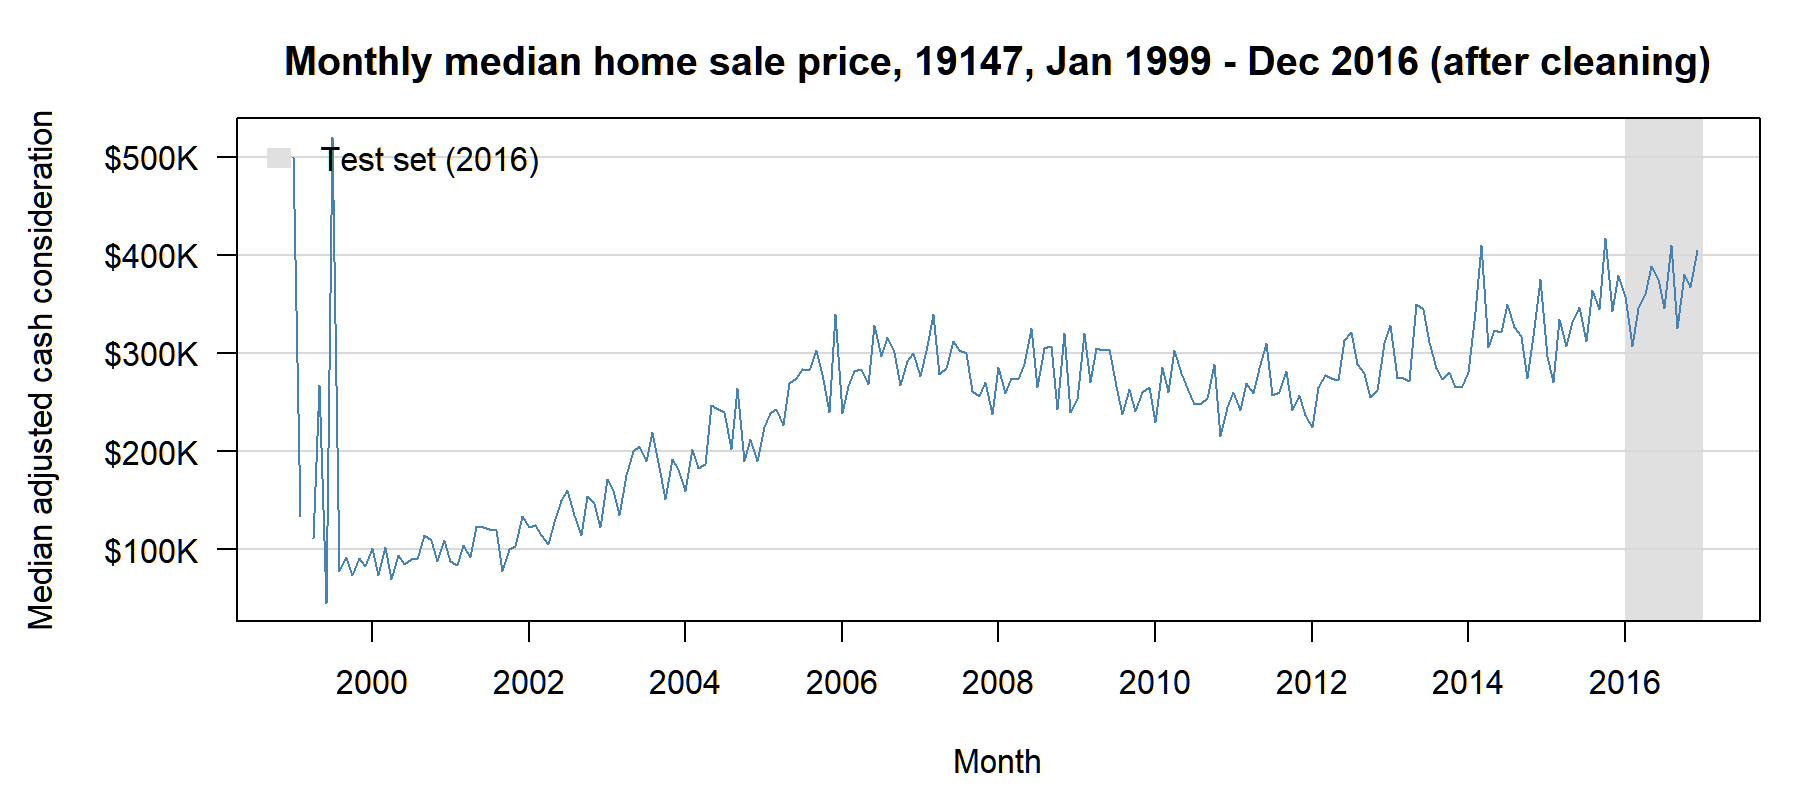
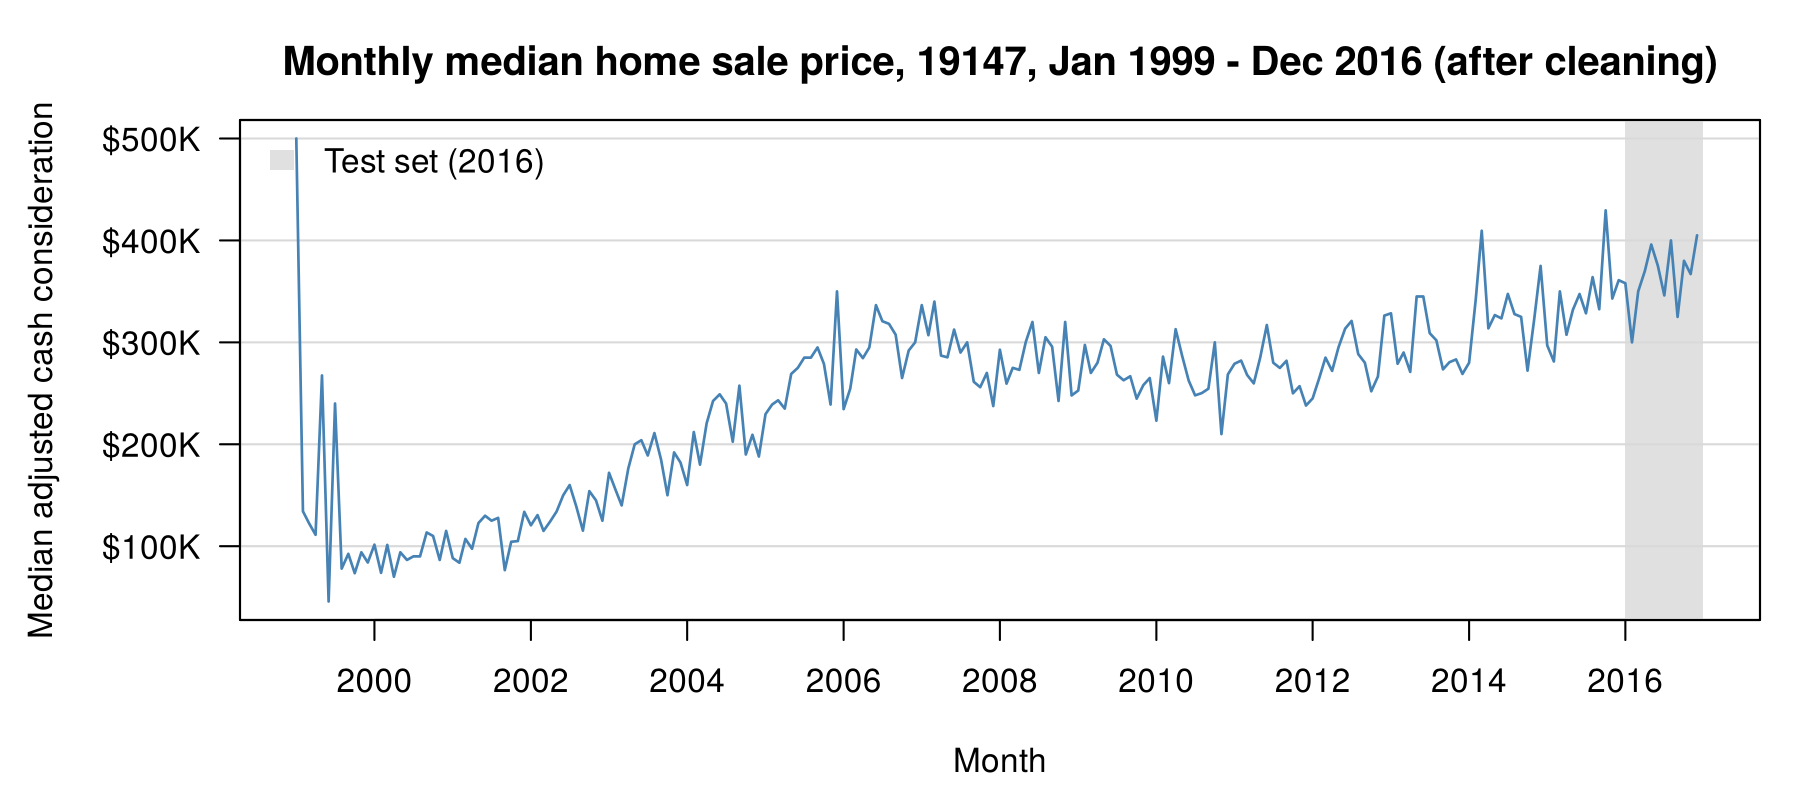
Address remaining MI3 feedback: eda_plots.R reads notebook series, saves to OUTPUT; fix data docs and file map

diff --git a/project2/DATA/README.md b/project2/DATA/README.md
@@ -1,11 +1,11 @@
 # Data Summary
-Our raw data is the City of Philadelphia's Real Estate Transfers dataset [1], downloaded from OpenDataPhilly as a single CSV of every document recorded in the city since December 1999. Each row is one recorded document for one property, such as a deed or a mortgage, described by 47 variables, including the document type, document date, ZIP code, and adjusted cash consideration [2]. The file we downloaded has 5,168,341 rows. From it we built a monthly series of median home sale prices for the 19147 ZIP code (Queen Village, Bella Vista, Pennsport, and nearby neighborhoods [3]) covering January 1999 to December 2016: 216 months, of which the first 204 (1999–2015) train the model and the last 12 (2016) test it. After cleaning, 13,900 deeds remain, with a median price of $250,000. No buyer or seller names appear in any file we publish. The repository stores two derived files: the cleaned deed-level records at `/project2/DATA/rtt_19147_clean.csv`, and the monthly series used for modeling at `/project2/DATA/rtt_19147_monthly.csv`.
+Our raw data is the City of Philadelphia's Real Estate Transfers dataset [1], downloaded from OpenDataPhilly as a single CSV of every document recorded in the city since December 1999. Each row is one recorded document for one property, such as a deed or a mortgage, described by 47 variables, including the document type, document date, ZIP code, and adjusted cash consideration [2]. The file we downloaded has 5,171,819 rows. From it we built a monthly series of median home sale prices for the 19147 ZIP code (Queen Village, Bella Vista, Pennsport, and nearby neighborhoods [3]) covering January 1999 to December 2016: 216 months, of which the first 204 (1999–2015) train the model and the last 12 (2016) test it. After cleaning, 13,900 deeds remain, with a median price of $250,000. No buyer or seller names appear in any file we publish. The repository stores two derived files: the cleaned deed-level records at `/project2/DATA/rtt_19147_clean.csv`, and the monthly series used for modeling at `/project2/DATA/rtt_19147_monthly.csv`.
 
 # Downloading the Raw Data
 To download the data look at data.md for instructions 
 
 # Provenance
-Philadelphia's Department of Records records every deed filed in the city and collects the realty transfer tax on property transfers. The city matches each property to its address system, which assigns the ZIP code, gives each property in a multi-property transaction its own row with an equal share of the price, and publishes the records monthly back to December 6, 1999 [1], [2]. Our group downloaded the all-years CSV from OpenDataPhilly in October 2026 and cleaned it with pandas [4] in `/project2/SCRIPTS/code.ipynb`. The script keeps only deeds dated January 1, 1999 through December 31, 2016 whose ZIP code starts with 19147 (so ZIP+4 codes are included). It then removes records with no price, records below a $10,000 price floor chosen from the price histogram (Figure 1), same-day groups of five or more deeds that share one identical price (bulk sales), and sales more than three standard deviations from their year's mean log price. The cleaned records are written to `rtt_19147_clean.csv`; the script then takes each month's median adjusted cash consideration and sale count, fills any month with no sales by linear interpolation, and writes the result to `rtt_19147_monthly.csv`. The exploratory figures come from `/project2/SCRIPTS/eda_plots.R`, which pulls the same 19147 deeds from the city's Carto SQL API instead of the downloaded CSV, applies the same rules (and also drops deeds covering more than one property), and builds the series the same way.
+Philadelphia's Department of Records records every deed filed in the city and collects the realty transfer tax on property transfers. The city matches each property to its address system, which assigns the ZIP code, gives each property in a multi-property transaction its own row with an equal share of the price, and publishes the records monthly back to December 6, 1999 [1], [2]. Our group downloaded the all-years CSV from OpenDataPhilly in October 2026 and cleaned it with pandas [4] in `/project2/SCRIPTS/code.ipynb`. The script keeps only deeds dated January 1, 1999 through December 31, 2016 whose ZIP code starts with 19147 (so ZIP+4 codes are included). It then removes records with no price, records below a $10,000 price floor chosen from the price histogram (Figure 1), same-day groups of two or more deeds that share one identical price (bulk or multi-property sales), and sales more than three standard deviations from their year's mean log price. The cleaned records are written to `rtt_19147_clean.csv`; the script then takes each month's median adjusted cash consideration and sale count, fills any month with no sales by linear interpolation, and writes the result to `rtt_19147_monthly.csv`. It also writes `cleaning_steps_log.csv`, which records how many rows each step removed. The exploratory figures come from `/project2/SCRIPTS/eda_plots.R`. Figure 1 shows the raw prices before any cleaning; to avoid loading the full CSV into R, the script pulls just the 19147 deeds dated 1999–2016 from the city's Carto SQL API, which serves the same Real Estate Transfers table. Figure 2 is drawn directly from `rtt_19147_monthly.csv`, so it shows exactly the series the model uses.
 
 # License
 The data falls under the City of Philadelphia License [5]: the city keeps all rights, provides the data as is with no warranty, and holds users responsible for how they use it. We credit the City of Philadelphia, Department of Records, as the source. Our code is released separately under the MIT License (see `/project2/LICENSE.md`), which does not apply to the data.
@@ -38,14 +38,17 @@ One row per deed that survived cleaning: 13,900 deeds in ZIP 19147 dated January
 | month_year | String | Month and year of document_date (YYYY-MM); used to group deeds into the monthly series | 215 of the 216 months from 1999-01 to 2016-12 | 0 | March 1999 has no deeds, so that month's median in the monthly file is interpolated. |
 
 ## `rtt_19147_monthly.csv`
-The final series used for modeling: one row per month, 216 rows (January 1999 to December 2016).
+The final series used for modeling: one row per month, 216 rows (January 1999 to December 2016), with 4 columns.
 
 | Feature | Type | Description | Values / Range | Missing | Uncertainty |
 |:---|:---|:---|:---|:---|:---|
-| month | Date (YYYY-MM) | Month and year of the deeds | 1999-01 to 2016-12 | 0 | None. One row per month, no duplicates. |
-| median_price | Numeric | Median adjusted cash consideration of that month's deeds, in USD | $45,750 to $500,000; $70,000 (2000-04) to $429,500 (2015-10) from 2000 on | 1 (March 1999) | High in early 1999. January–October 1999 medians rest on 1 to 10 deeds each, so they are very noisy (both extremes fall in 1999). From 2000 on, every month has at least 22 deeds (fewest in 2009-01). Not adjusted for inflation. |
-| n_sales | Integer | Number of deeds used to compute the month's median | 0 to 127 (2007-06); median 65 | 0 | Counts sales left after cleaning, not every sale in the ZIP code. 0 only for March 1999. |
-| median_price_filled | Numeric | median_price with the empty month filled by linear interpolation; the column the model uses | Same as median_price | 0 | March 1999 is an interpolated estimate, not an observed median. |
+| month_year | String (YYYY-MM) | Month and year of the deeds | 1999-01 to 2016-12 | 0 | None. One row per month, no duplicates. |
+| median_price | Numeric | Median adjusted cash consideration of that month's deeds, in USD; months with no deeds are filled by linear interpolation. This is the column the model uses. | $45,750 to $500,000; $70,000 (2000-04) to $429,500 (2015-10) from 2000 on | 0 | High in early 1999. January–October 1999 medians rest on 1 to 10 deeds each, so they are very noisy (both extremes fall in 1999). From 2000 on, every month has at least 22 deeds (fewest in 2009-01). March 1999 is an interpolated estimate, not an observed median. Not adjusted for inflation. |
+| sale_count | Integer | Number of deeds used to compute the month's median | 0 to 127 (2007-06); median 65 | 0 | Counts sales left after cleaning, not every sale in the ZIP code. 0 only for March 1999. |
+| interpolated | Boolean | True if the month had no deeds and its median_price was interpolated | True for 1 month (1999-03), False otherwise | 0 | None. |
+
+## `cleaning_steps_log.csv`
+One row per cleaning step in `code.ipynb`, 9 rows, with 4 columns: `step` (what the step did), `records_before`, `records_removed`, and `records_remaining`. It starts at 5,171,819 raw records and ends at the 13,900 deeds in `rtt_19147_clean.csv`.
 
 # Exploratory Plots
 ![Raw price distribution for 19147 deeds](../OUTPUT/fig1_raw_price_distribution.png)

diff --git a/project2/README.md b/project2/README.md
@@ -26,7 +26,7 @@ This repository holds the data, code, and outputs for Project 2 of DS 4002. We b
 
 **R packages**
 
-`eda_plots.R` uses base R only. The packages below are for `sarima_analysis.Rmd`.
+`eda_plots.R` needs only `here`. All of the packages below are used by `sarima_analysis.Rmd`.
 
 | Package | Version | Used for |
 |---|---|---|
@@ -36,7 +36,7 @@ This repository holds the data, code, and outputs for Project 2 of DS 4002. We b
 | `ggplot2` | 4.0.3 | Plotting |
 | `scales` | 1.4.0 | Formatting axis labels (dollar amounts, dates) |
 | `patchwork` | 1.3.2 | Combining several plots into one figure |
-| `here` | 1.0.2 | Building file paths from the project root |
+| `here` | 1.0.2 | Building file paths from the repository root (used by both R scripts) |
 
 `rmarkdown` and `knitr` are also needed to knit `sarima_analysis.Rmd`; RStudio installs them automatically.
 
@@ -59,13 +59,16 @@ project2/
 ├── README.md                          # This file: orientation and reproduction steps
 ├── LICENSE.md                         # MIT License
 ├── DATA/
-│   ├── data.md                        # Metadata: summary, provenance, license, ethics,
-│   │                                  #   data dictionary, exploratory plots, and how to
-│   │                                  #   download the raw CSV
+│   ├── README.md                      # Metadata: summary, provenance, license, ethics,
+│   │                                  #   data dictionary, and exploratory plots
+│   ├── data.md                        # How to download the raw CSV
 │   ├── downlaodData.png               # Screenshot showing where to download the raw CSV
 │   ├── rtt_summary.csv                # Raw all-years Real Estate Transfers CSV. NOT in the
 │   │                                  #   repo: you download it in Step 1 (~5.2M rows, too
 │   │                                  #   large for GitHub)
+│   ├── raw_19147_deeds.csv            # NOT in the repo: written when you run eda_plots.R
+│   │                                  #   (its API pull of the raw 19147 deeds, 1999–2016,
+│   │                                  #   used only for Figure 1)
 │   ├── rtt_19147_clean.csv            # Written by code.ipynb: cleaned deed-level records for
 │   │                                  #   ZIP 19147, 1999–2016 (1999 is dropped later, in the
 │   │                                  #   model, for better performance)
@@ -74,13 +77,8 @@ project2/
 │                                      #   count. This is the series the model uses.
 ├── SCRIPTS/
 │   ├── code.ipynb                     # Step 2: cleans the raw CSV and builds the monthly series
-│   ├── eda_plots.R                    # Step 3: exploratory figures (Figures 1 and 2); pulls its
-│   │                                  #   own data from the city's API
-│   ├── raw_19147_deeds.csv            # NOT in the repo: written when you run eda_plots.R
-│   │                                  #   (its API pull of 19147 deeds, 1999–2016)
-│   ├── monthly_19147.csv              # NOT in the repo: written when you run eda_plots.R
-│   │                                  #   (its own monthly series, for Figure 2 only; the
-│   │                                  #   model uses DATA/rtt_19147_monthly.csv)
+│   ├── eda_plots.R                    # Step 3: exploratory figures (Figures 1 and 2), saved
+│   │                                  #   to OUTPUT/
 │   ├── sarima_analysis.Rmd            # Step 4: SARIMA order selection, fitting, diagnostics,
 │   │                                  #   forecast, and evaluation
 │   ├── sarima_analysis.md             # Knitted (GitHub-rendered) output of sarima_analysis.Rmd
@@ -112,7 +110,7 @@ project2/
 
 ## Section 3: Instructions for Reproducing Our Results
 
-Steps 2 and 4 must run in order, because the model in Step 4 reads the monthly series that Step 2 writes. Step 3 only makes the two exploratory figures. It pulls its own data from the city's API, so it can run any time after Step 1.
+Run the steps in order. Steps 3 and 4 both read `DATA/rtt_19147_monthly.csv`, the monthly series that Step 2 writes. (That file is also committed to the repository, so Steps 3 and 4 can be run on their own to check our results.)
 
 ### Step 1: Get the code and the raw data
 
@@ -142,18 +140,14 @@ Steps 2 and 4 must run in order, because the model in Step 4 reads the monthly s
 
 ### Step 3: Make the exploratory figures (R)
 
-`eda_plots.R` does not read the files from Step 2, and nothing in Step 4 reads the files it writes.
+1. Open `SCRIPTS/eda_plots.R` in RStudio and click **Source** (or run `Rscript project2/SCRIPTS/eda_plots.R` from the repository root). Like the R Markdown file, it uses `here` to build file paths from the repository root, so run it from anywhere inside the cloned repository.
+2. **Figure 1** shows prices *before* cleaning, so it needs the raw deeds. Rather than load the full 5.2-million-row CSV into R, the script pulls only the 19147 deeds dated 1999–2016 from the City of Philadelphia's Carto SQL API [9]. This is the same Real Estate Transfers table, with the same DEED, ZIP code, and date filters the notebook applies first. No cleaning is applied. The first run needs an internet connection and saves the pull as `DATA/raw_19147_deeds.csv`; later runs reuse that file. Set `REFRESH <- TRUE` at the top of the script to pull fresh data.
+3. **Figure 2** reads `DATA/rtt_19147_monthly.csv`, the series written in Step 2. The script does no cleaning or interpolation of its own, so Figure 2 shows exactly the series the model uses.
+4. The script saves both figures straight to `OUTPUT/`:
+   - `fig1_raw_price_distribution.png`
+   - `fig2_monthly_median.png`
 
-1. Open `SCRIPTS/eda_plots.R` in RStudio and click **Source**. The script uses base R only, so it needs no extra packages. When sourced from RStudio, it sets the working directory to its own folder, so every file it writes lands in `SCRIPTS/`. (Outside RStudio, run it from `SCRIPTS/` to get the same result.)
-2. On its first run, the script pulls every 19147 deed dated 1999–2016 from the City of Philadelphia's Carto SQL API (the same Real Estate Transfers data), so the first run needs an internet connection. It saves the pull as `raw_19147_deeds.csv`, and later runs reuse that file. Set `REFRESH <- TRUE` at the top of the script to pull fresh data.
-3. The script prints how many deeds each cleaning rule removed, builds its own monthly series, and writes these to `SCRIPTS/`:
-   - `monthly_19147.csv`, its monthly median price and sale count
-   - `fig1_raw_price_distribution.png` and `fig2_monthly_median.png`
-4. Copy the two figures into `OUTPUT/` to match the repository.
-
-`raw_19147_deeds.csv` and `monthly_19147.csv` are created when you run the script and are not included in the repository.
-
-**How this script's cleaning differs from the notebook's:** it keeps only single-property deeds (`property_count == 1`), and it treats a group as a bulk sale only when 5 or more records share the same day and price (the notebook uses 2 or more). Its interpolation (`approx()`) also does not fill empty months at the very start or end of the series. Because of this, `monthly_19147.csv` and Figure 2 can differ slightly from `DATA/rtt_19147_monthly.csv`, which is the series the model uses.
+`raw_19147_deeds.csv` is created when you run the script and is not included in the repository.
 
 ### Step 4: Fit, check, and evaluate the SARIMA model (R)
 
